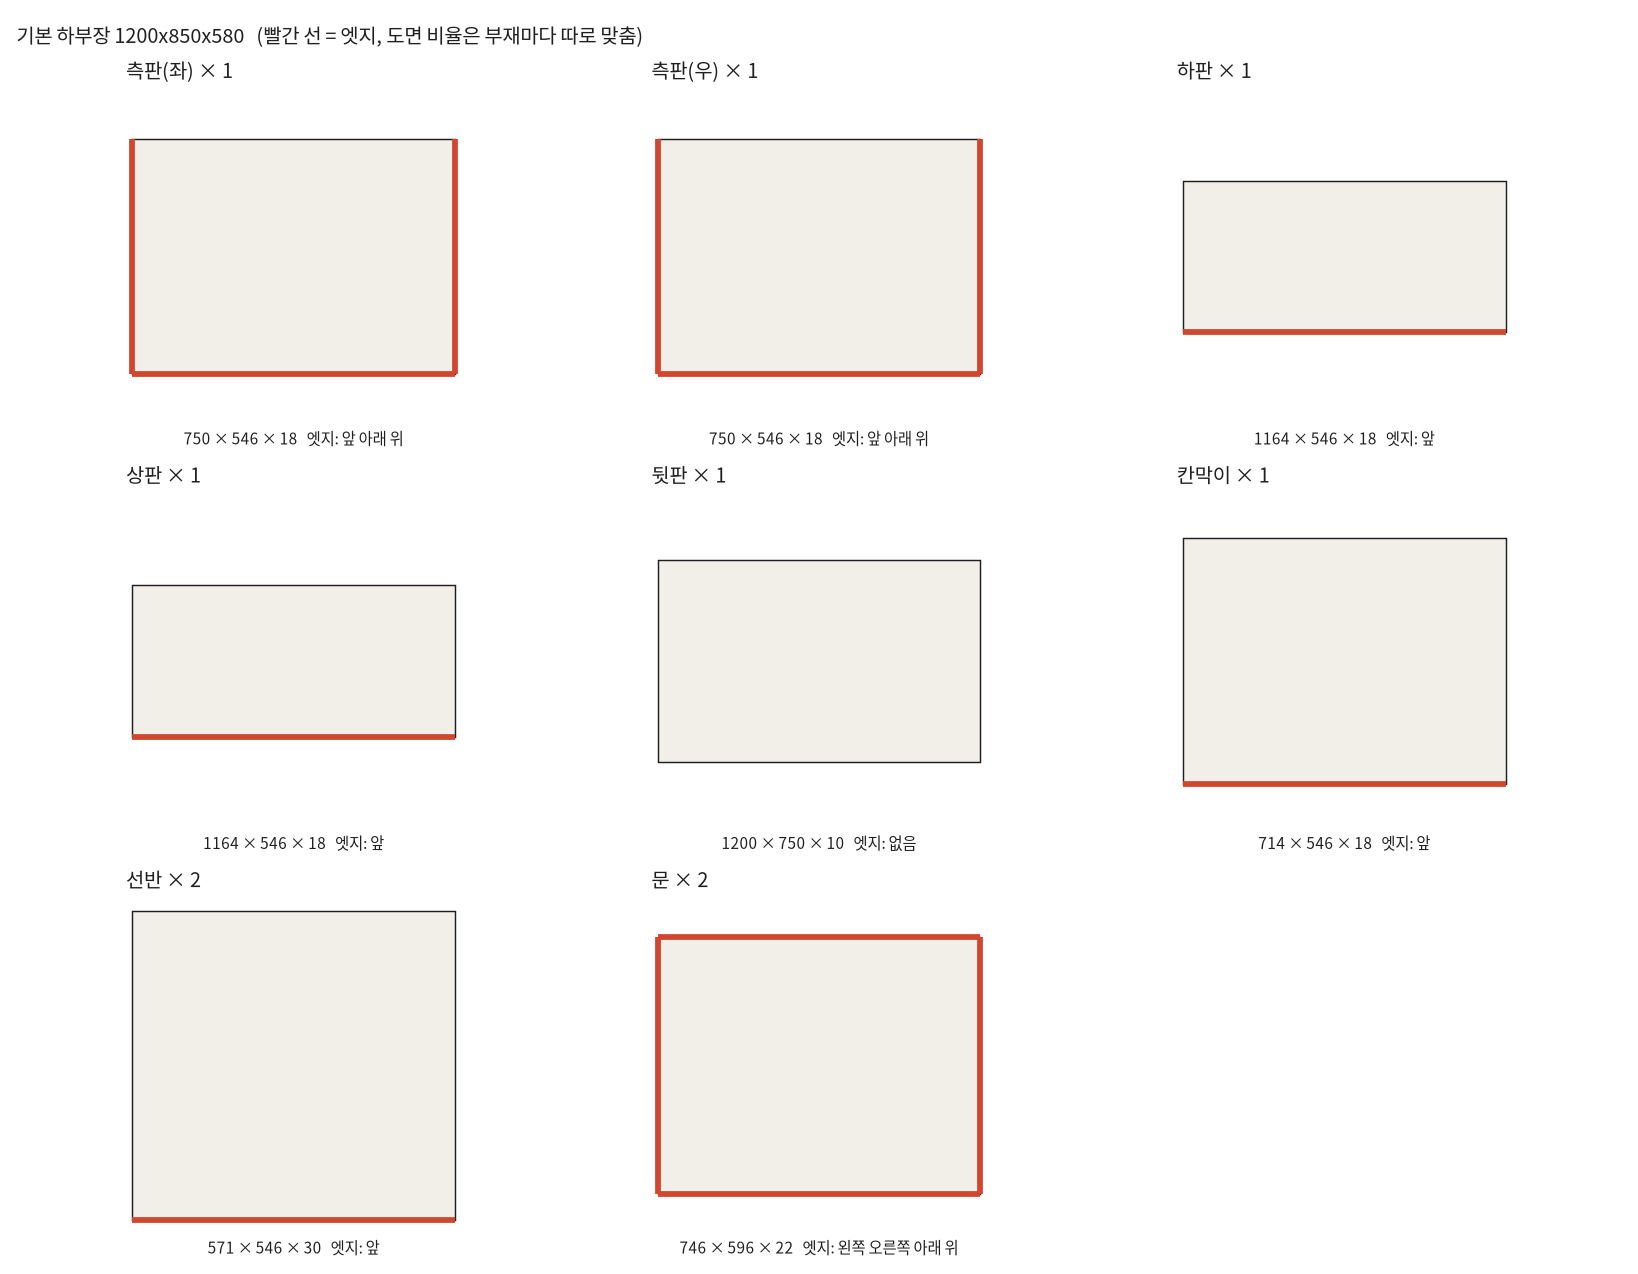
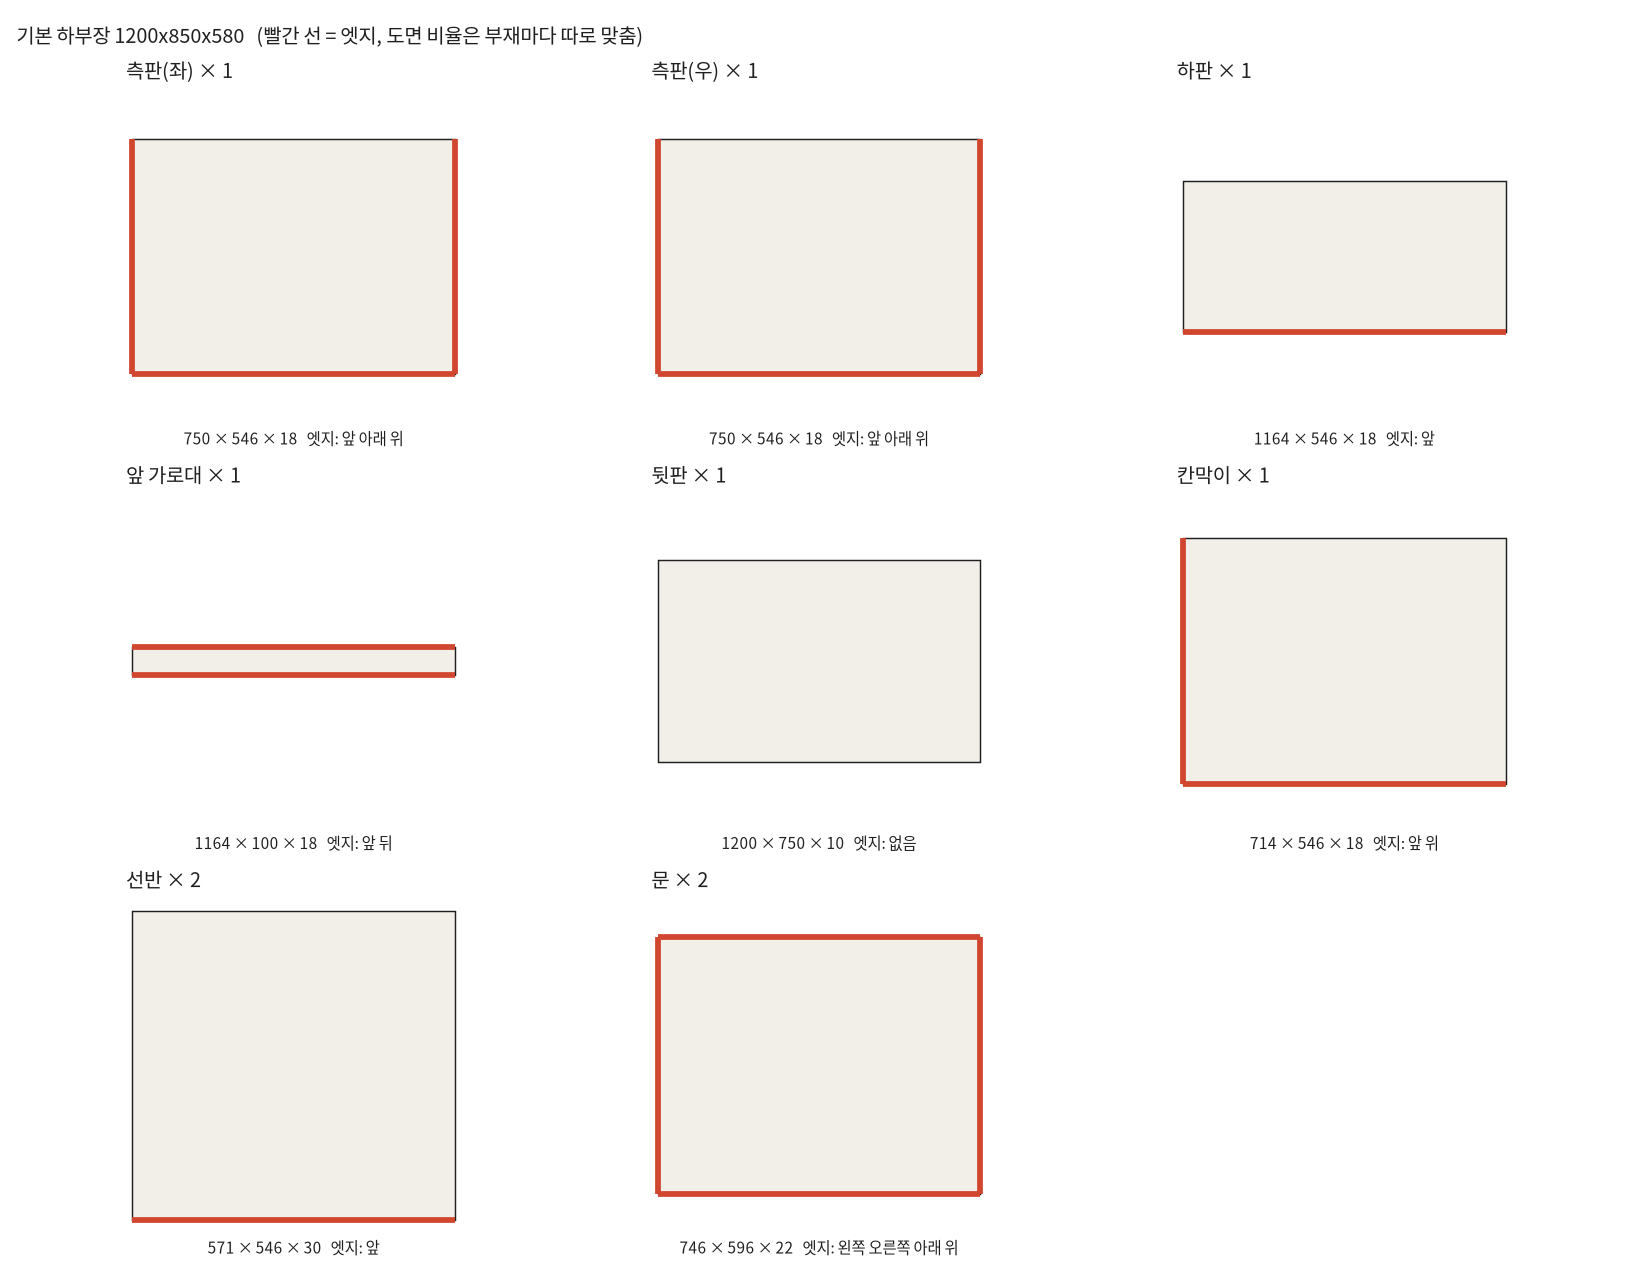
Rule checker and cut list results [skip ci]

diff --git a/results/cutlist/ref_1200x850x580.md b/results/cutlist/ref_1200x850x580.md
@@ -5,13 +5,13 @@
 | 측판(좌) | 1 | 750 | 546 | 18 | 1 | 2 | 앞 아래 위 |
 | 측판(우) | 1 | 750 | 546 | 18 | 1 | 2 | 앞 아래 위 |
 | 하판 | 1 | 1164 | 546 | 18 | 1 | 0 | 앞 |
-| 상판 | 1 | 1164 | 546 | 18 | 1 | 0 | 앞 |
+| 앞 가로대 | 1 | 1164 | 100 | 18 | 2 | 0 | 앞 뒤 |
 | 뒷판 | 1 | 1200 | 750 | 10 | 0 | 0 | 없음 |
-| 칸막이 | 1 | 714 | 546 | 18 | 1 | 0 | 앞 |
+| 칸막이 | 1 | 714 | 546 | 18 | 1 | 1 | 앞 위 |
 | 선반 | 2 | 571 | 546 | 30 | 1 | 0 | 앞 |
 | 문 | 2 | 746 | 596 | 22 | 2 | 2 | 왼쪽 오른쪽 아래 위 |
 
-엣지 총 길이: 13.24 m
+엣지 총 길이: 14.95 m
 
 하드웨어: 경첩(컵 35) 4개, 선반 다보 8개, 다릿발 6개
 
